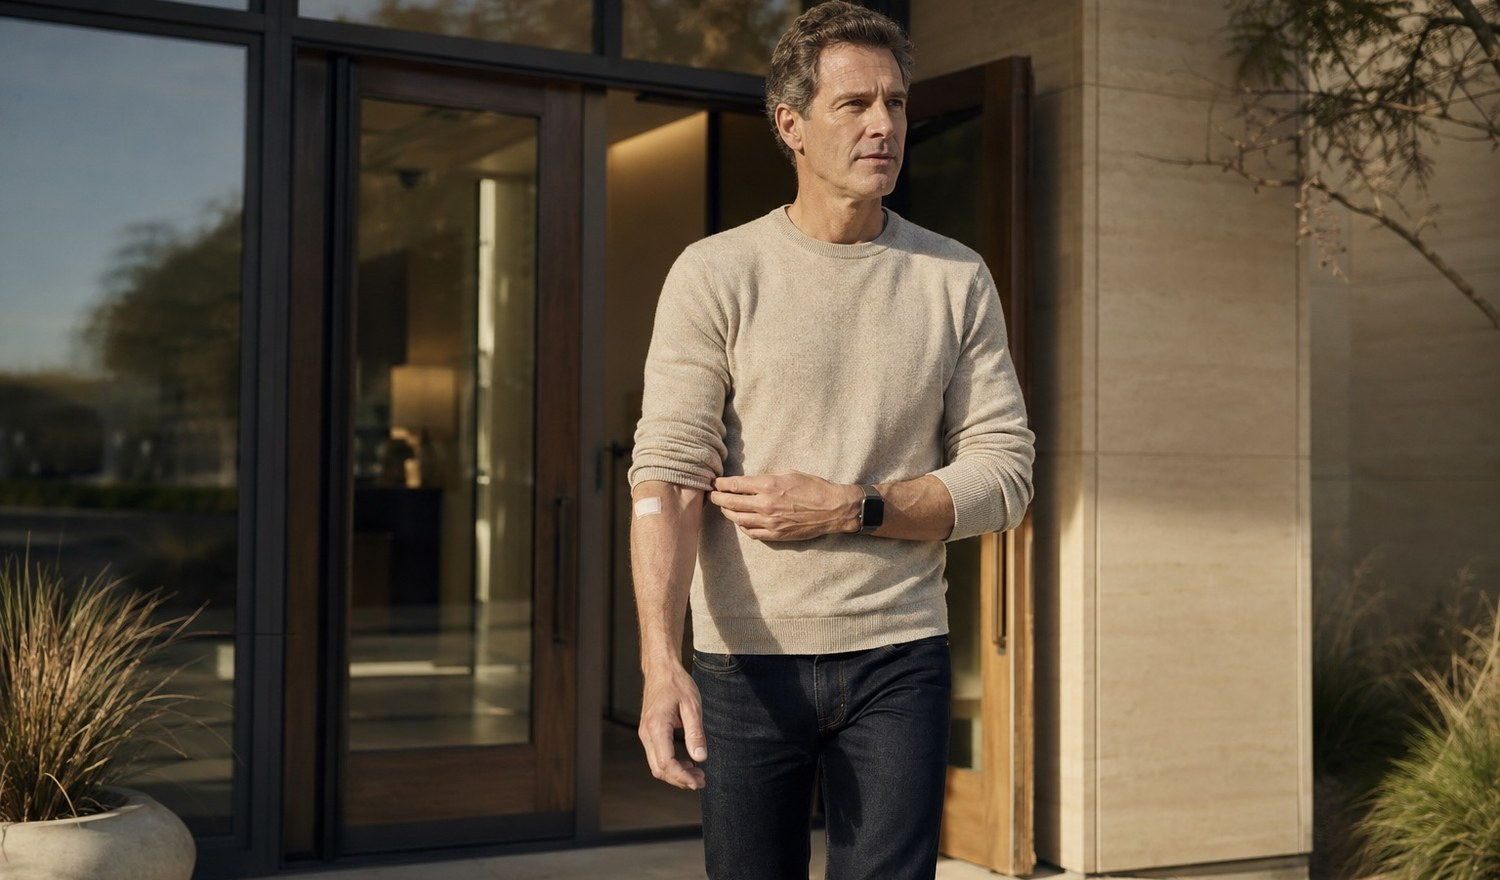
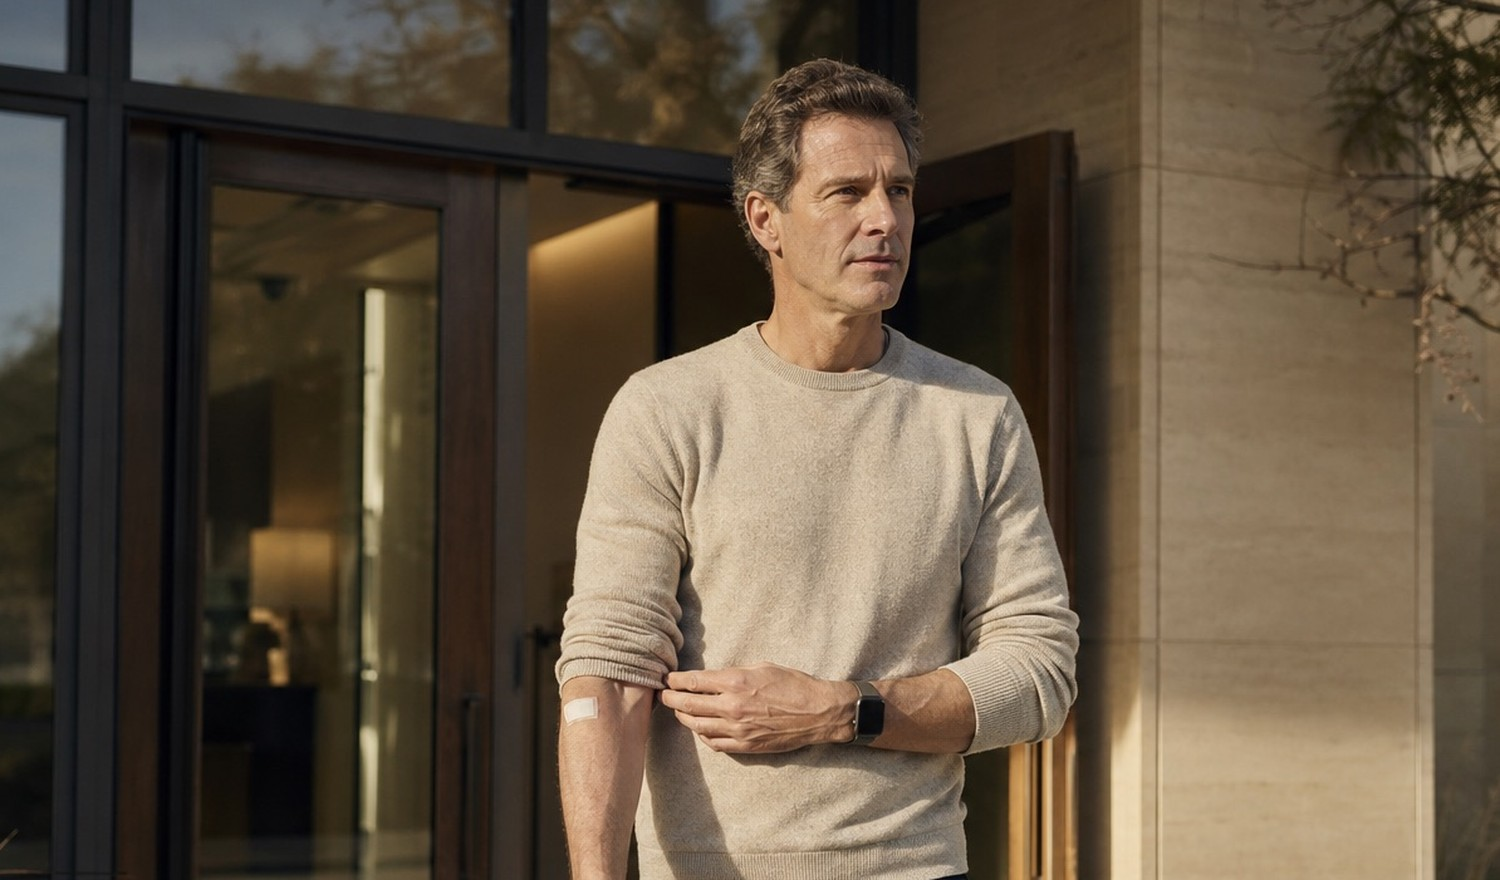
Bloodwork split: tighten both crops (subject ~2x), woman looking at prominent Tasso+, keep man full head + bandage

diff --git a/index.html b/index.html
@@ -1205,8 +1205,8 @@
         <div class="exp-frame is-active" data-i="0"><img src="assets/photos/exp-01-onboarding.jpg" alt="Onboarding · phone and Apple Watch"></div>
         <div class="exp-frame" data-i="1"><img src="assets/photos/exp-02-genetics.jpg" alt="Genetics kit on a kitchen counter"></div>
         <div class="exp-frame exp-frame-split" data-i="2">
-          <div class="exp-split-half"><img src="assets/photos/exp-03-bloodwork-location.jpg?v=split-h-20260608" alt="Member leaving a Quest patient service center after a blood draw"><span class="exp-split-tag">In person</span></div>
-          <div class="exp-split-half"><img src="assets/photos/exp-03-bloodwork-athome.jpg?v=split-h-20260608" alt="Member using an at-home capillary collection device at the kitchen table"><span class="exp-split-tag">At home</span></div>
+          <div class="exp-split-half"><img src="assets/photos/exp-03-bloodwork-location.jpg?v=split-h2-20260608" alt="Member leaving a Quest patient service center after a blood draw"><span class="exp-split-tag">In person</span></div>
+          <div class="exp-split-half"><img src="assets/photos/exp-03-bloodwork-athome.jpg?v=split-h2-20260608" alt="Member using an at-home capillary collection device at the kitchen table"><span class="exp-split-tag">At home</span></div>
         </div>
         <div class="exp-frame" data-i="3"><img src="assets/photos/exp-04-consult.jpg" alt="Physician reviewing advanced risk models and a member game plan"></div>
       </div>
